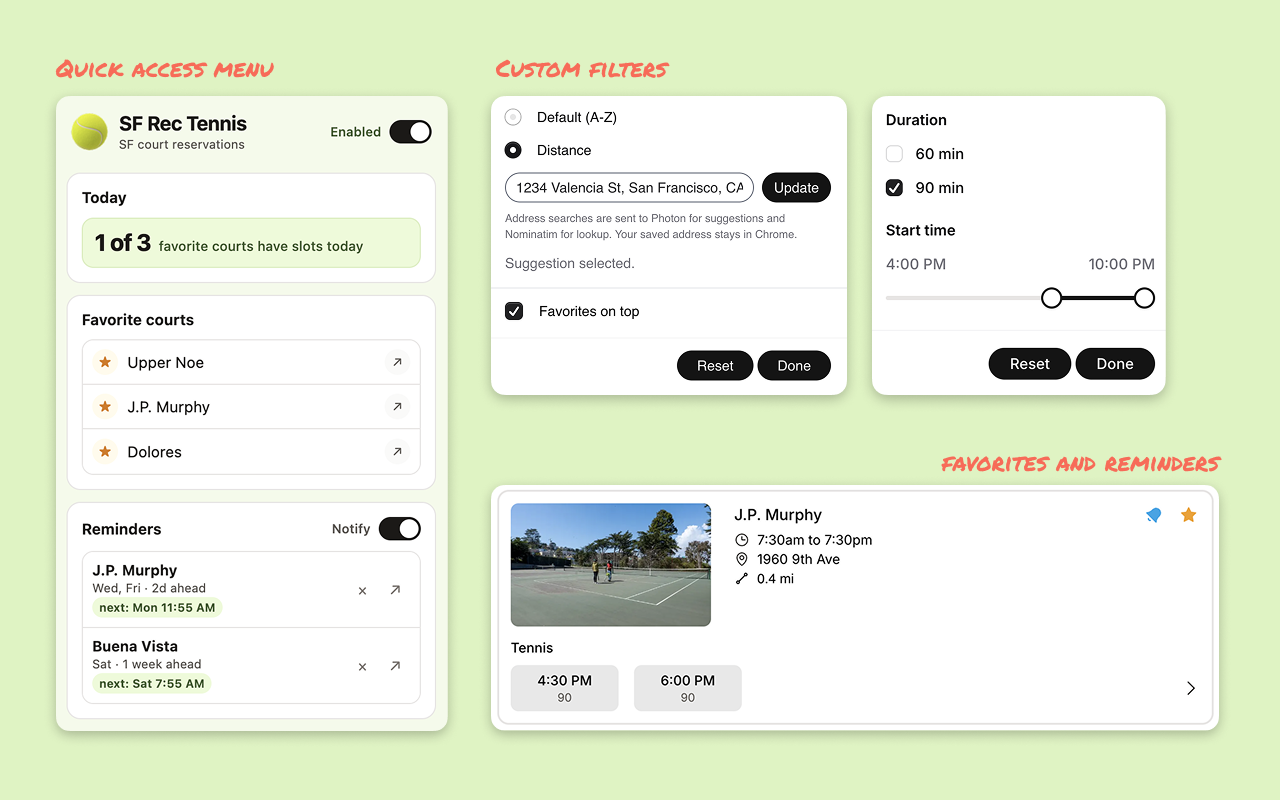
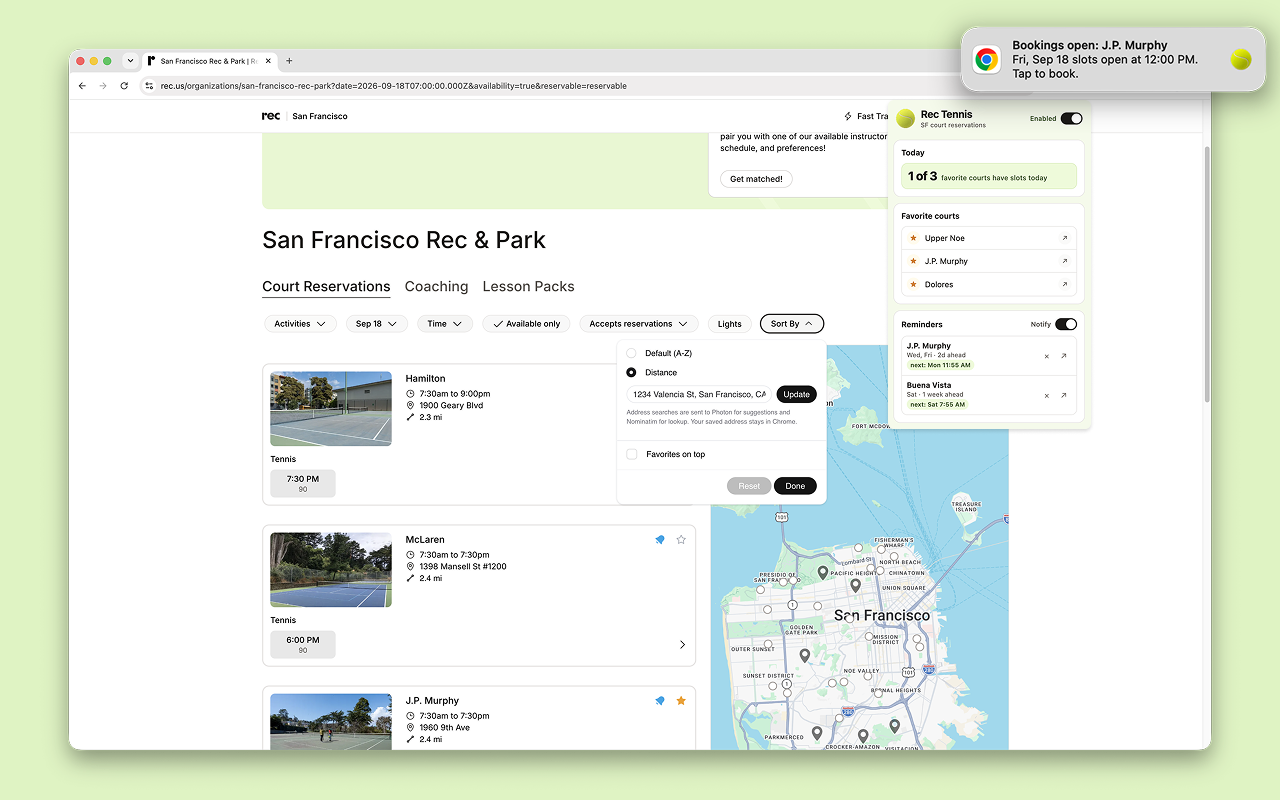
Refresh README screenshots

diff --git a/README.md b/README.md
@@ -4,15 +4,9 @@ SF Rec Tennis is an unofficial Chrome extension that makes it easier to find and
 
 It adds precise time and duration filters, favorites, distance sorting, court-light filters, and reminders for reservation windows. It does not make reservations automatically.
 
-## Screenshots
+![SF Rec Tennis](assets/screenshot-1.png)
 
-### Quick access, filters, favorites, and reminders
-
-![SF Rec Tennis quick access menu, custom filters, favorites, and reminders](assets/screenshot-1.png)
-
-### Distance sorting and booking notifications on rec.us
-
-![SF Rec Tennis distance sorting on the rec.us court list with a booking notification](assets/screenshot-2.png)
+![SF Rec Tennis](assets/screenshot-2.png)
 
 ## Install
 
